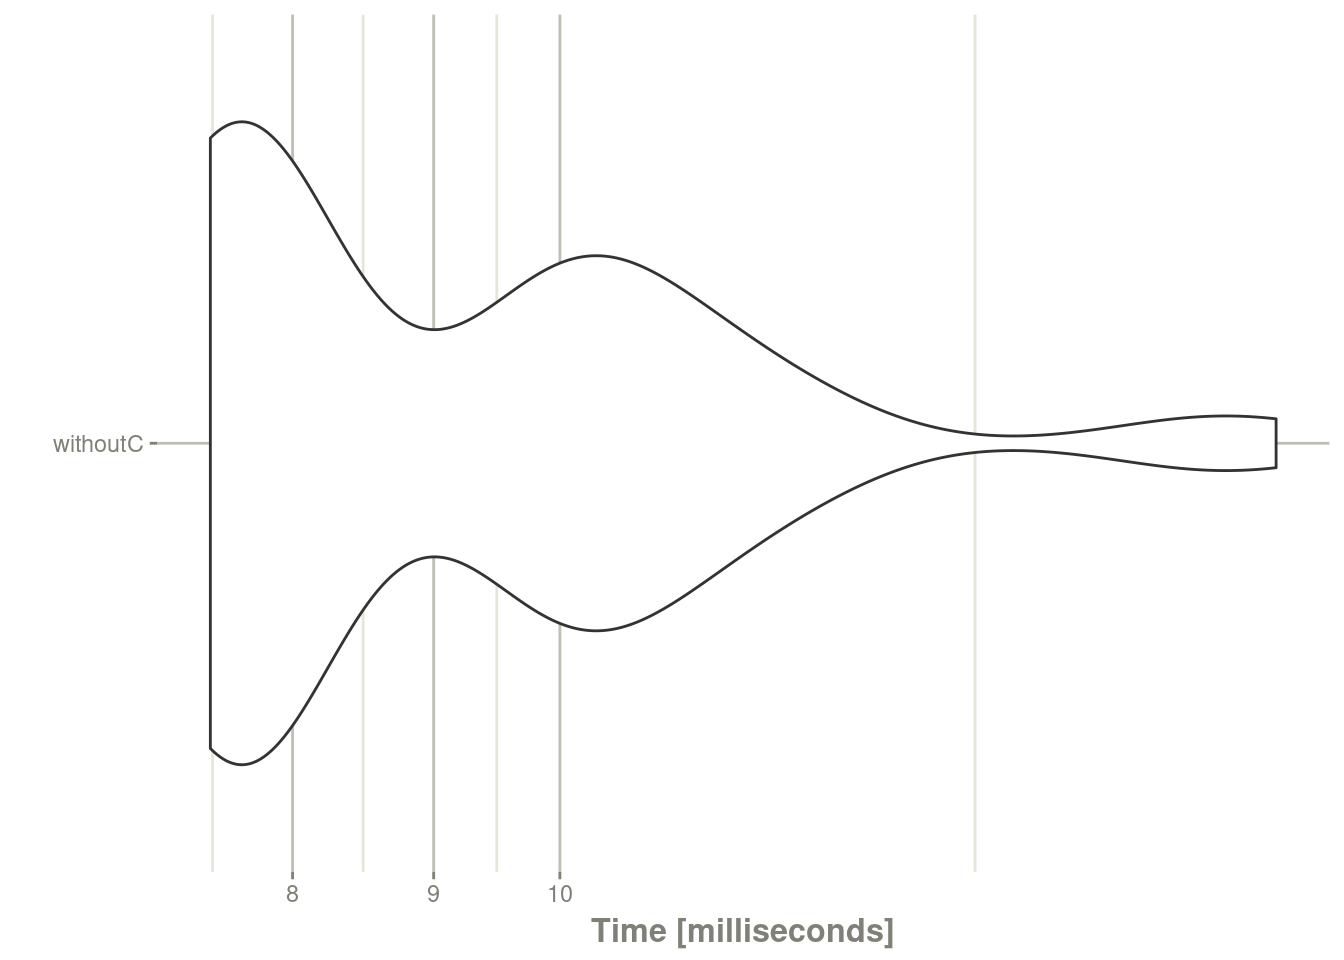
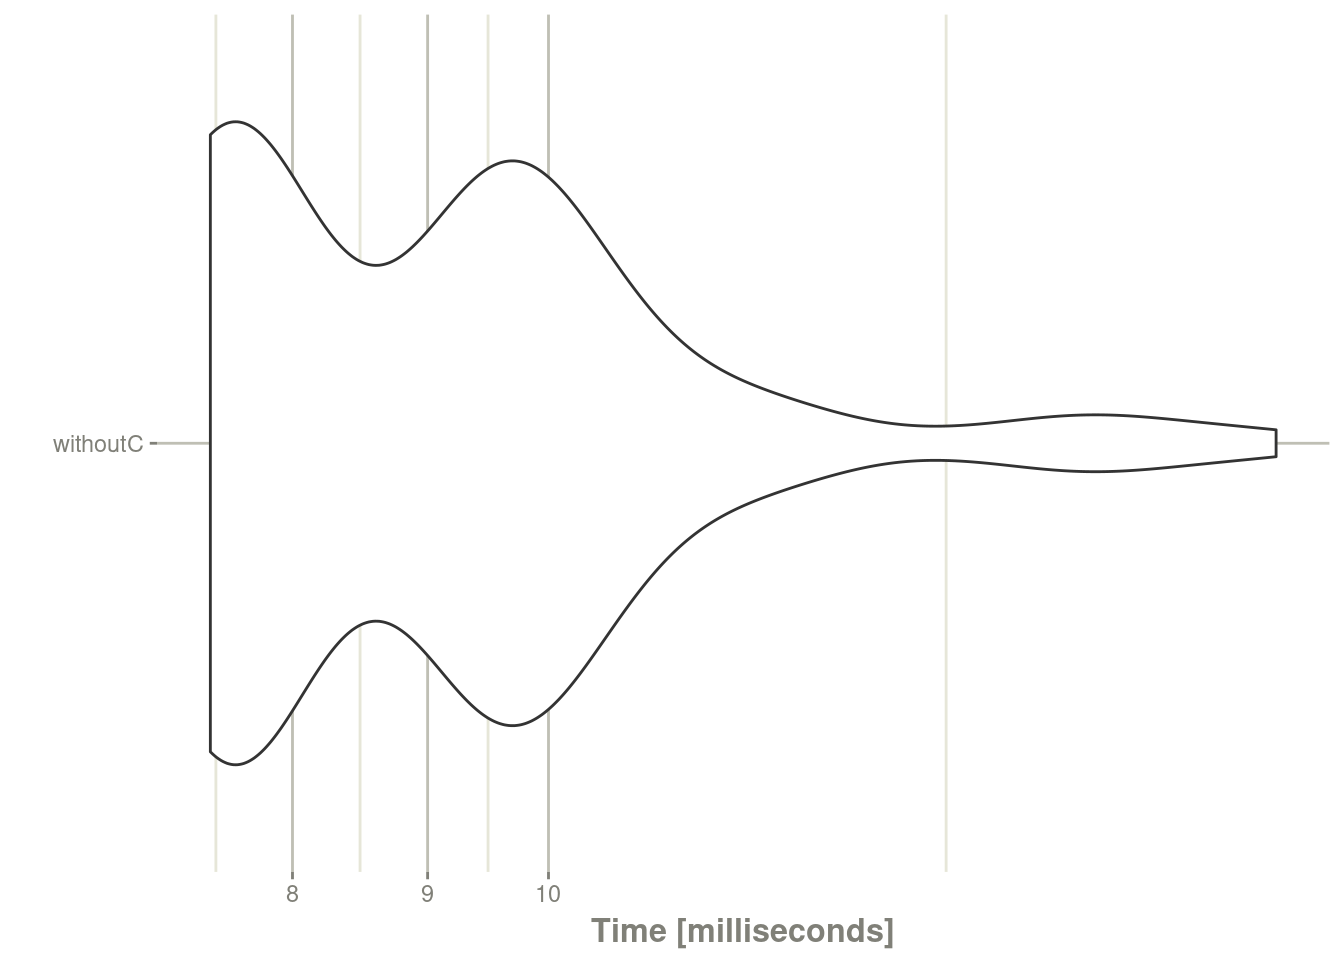
Update blog with link and manually remove warnings

diff --git a/content/blog/2024-05-08-user-functions/index.html b/content/blog/2024-05-08-user-functions/index.html
@@ -17,7 +17,7 @@ routines.</p>
 <p>This can call R functions directly, but at a cost – single threaded
 and slower execution. However, you can reduce the cost by converting
 the R functions to <code>C</code> automatically with <code>rxFun()</code>. Most of this blog
-is simply restating a new vignette on user defined functions with an
+is simply restating a <a href="https://nlmixr2.github.io/rxode2/articles/Integrating-User-Defined-Functions-into-rxode2.html">new vignette</a> on user defined functions with an
 additional example of a slow running <code>nlmixr2</code> model to show how much
 converting to C will save computation time. However since this opens
 up the flexibility of <code>nlmixr2</code> and <code>rxode2</code>, I think it is exciting
@@ -57,18 +57,7 @@ f &lt;- rxode2({
   a &lt;- newAbs(time)
 })</code></pre>
 <pre><code>## using C compiler: ‘gcc (Ubuntu 11.4.0-1ubuntu1~22.04) 11.4.0’
-## In file included from /usr/share/R/include/R.h:71,
-##                  from /home/matt/R/x86_64-pc-linux-gnu-library/4.4/rxode2parse/include/rxode2parse.h:33,
-##                  from /home/matt/R/x86_64-pc-linux-gnu-library/4.4/rxode2/include/rxode2.h:9,
-##                  from /home/matt/R/x86_64-pc-linux-gnu-library/4.4/rxode2parse/include/rxode2_model_shared.h:3,
-##                  from rx_dd7f723d39f6770328f28eef63a5fe04_.c:117:
-## /usr/share/R/include/R_ext/Complex.h:80:6: warning: ISO C99 doesn’t support unnamed structs/unions [-Wpedantic]
-##    80 |     };
-##       |      ^
-## rx_dd7f723d39f6770328f28eef63a5fe04_.c: In function ‘rx_dd7f723d39f6770328f28eef63a5fe04__dydt’:
-## rx_dd7f723d39f6770328f28eef63a5fe04_.c:498:12: warning: variable ‘a’ set but not used [-Wunused-but-set-variable]
-##   498 |     double a = NA_REAL;
-##       |            ^</code></pre>
+</code></pre>
 <pre class="r"><code>e &lt;- et(-10, 10, length.out=40)</code></pre>
 <p>Now that the ODE has been compiled the R functions will be called
 while solving the ODE. Since this is calling R, this forces the
@@ -99,25 +88,6 @@ f &lt;- rxode2({
   a &lt;- newAbs(time)
 })</code></pre>
 <pre><code>## using C compiler: ‘gcc (Ubuntu 11.4.0-1ubuntu1~22.04) 11.4.0’
-## In file included from /usr/share/R/include/R.h:71,
-##                  from /home/matt/R/x86_64-pc-linux-gnu-library/4.4/rxode2parse/include/rxode2parse.h:33,
-##                  from /home/matt/R/x86_64-pc-linux-gnu-library/4.4/rxode2/include/rxode2.h:9,
-##                  from /home/matt/R/x86_64-pc-linux-gnu-library/4.4/rxode2parse/include/rxode2_model_shared.h:3,
-##                  from rx_064e684126e57c2c0cbc53d1155b9145_.c:117:
-## /usr/share/R/include/R_ext/Complex.h:80:6: warning: ISO C99 doesn’t support unnamed structs/unions [-Wpedantic]
-##    80 |     };
-##       |      ^
-## rx_064e684126e57c2c0cbc53d1155b9145_.c: In function ‘rx_064e684126e57c2c0cbc53d1155b9145__dydt’:
-## rx_064e684126e57c2c0cbc53d1155b9145_.c:500:10: warning: unused variable ‘__udf’ [-Wunused-variable]
-##   500 |   double __udf[1];
-##       |          ^~~~~
-## rx_064e684126e57c2c0cbc53d1155b9145_.c:498:12: warning: variable ‘a’ set but not used [-Wunused-but-set-variable]
-##   498 |     double a = NA_REAL;
-##       |            ^
-## rx_064e684126e57c2c0cbc53d1155b9145_.c: In function ‘rx_064e684126e57c2c0cbc53d1155b9145__calc_lhs’:
-## rx_064e684126e57c2c0cbc53d1155b9145_.c:536:10: warning: unused variable ‘__udf’ [-Wunused-variable]
-##   536 |   double __udf[1];
-##       |          ^~~~~</code></pre>
 <pre class="r"><code>mb2 &lt;- microbenchmark::microbenchmark(withC=rxSolve(f,e, cores=1))
 
 mb &lt;- rbind(mb1, mb2)
@@ -127,9 +97,9 @@ autoplot(mb) + rxTheme() + xgxr::xgx_scale_y_log10()</code></pre>
 <p><img src="{{< blogdown/postref >}}index_files/figure-html/convertC-1.png" width="672" /></p>
 <pre class="r"><code>print(mb)</code></pre>
 <pre><code>## Unit: milliseconds
-##      expr      min       lq     mean   median        uq       max neval
-##  withoutC 7.469293 7.625126 9.379168 7.886387 10.422244 18.182975   100
-##     withC 2.358775 2.401169 2.629410 2.439151  2.537441  7.577106   100</code></pre>
+##      expr      min       lq     mean   median       uq       max neval
+##  withoutC 7.447356 7.579259 9.343757 9.276398 9.950757 18.854825   100
+##     withC 2.359816 2.399640 2.635558 2.451848 2.549441  7.762379   100</code></pre>
 <p>The C version is almost twice as fast as the R version. You may have
 noticed the conversion also created C versions of the first
 derivative. This is done automatically and gives not just C versions
@@ -253,7 +223,6 @@ dat$DV &lt;- dat$Y
 
 mbn1 &lt;- microbenchmark::microbenchmark(withR=suppressMessages(nlmixr2(g, dat, &quot;nlminb&quot;, control=list(print=0))))</code></pre>
 <pre><code>##
-</code></pre>
 <pre class="r"><code>mbn &lt;- rbind(mbn1, mbn2)
 autoplot(mb) + rxTheme() + xgxr::xgx_scale_y_log10()</code></pre>
 <pre><code>## Scale for y is already present.
@@ -261,9 +230,9 @@ autoplot(mb) + rxTheme() + xgxr::xgx_scale_y_log10()</code></pre>
 <p><img src="{{< blogdown/postref >}}index_files/figure-html/nlmixrCudf-1.png" width="672" /></p>
 <pre class="r"><code>print(mbn)</code></pre>
 <pre><code>## Unit: seconds
-##   expr      min       lq     mean   median       uq      max neval
-##  withR 4.599030 4.742592 4.862967 4.827024 4.910834 6.878099   100
-##  withC 1.548247 1.656798 1.768397 1.742349 1.872952 2.586074   100</code></pre>
+##   expr      min       lq     mean  median       uq      max neval
+##  withR 4.540540 4.790219 4.937575 4.92435 5.029367 7.079334   100
+##  withC 1.562221 1.726086 1.837169 1.79936 1.926593 2.735565   100</code></pre>
 <p>You can clearly see the need for C function in <code>nlmixr2</code> optimization</p>
 </div>
 <div id="conclusion" class="section level2">

diff --git a/content/blog/2022-10-23-nlmixr2-llik/index.html b/content/blog/2022-10-23-nlmixr2-llik/index.html
@@ -11,7 +11,6 @@ tags: [new-version]
 ---
 
 
-
 <p>I am pretty excited abut the new nlmixr2 release (2.0.8). When I joined the the nlmixr2 team, I wanted to do a fancy heavy tailed, skewed model in an open source tool so I could figure out how to do even more with it.</p>
 <p>With this release, it is possible to do a heavy tailed (t-distribution <code>dt()</code>) skewed (<code>coxBox(lambda)</code>) distribution: my old wish is now possible with <code>focei</code>!</p>
 <p>A few other things that people may be interested in are:</p>
